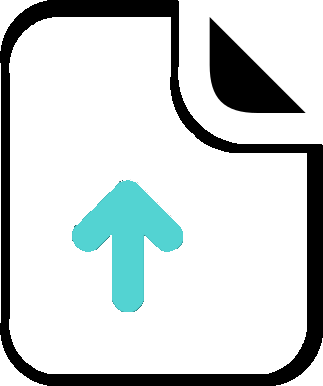
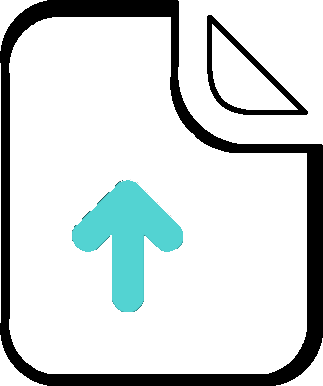
att png

Changed region(s): [[0.6192, 0.0311, 0.9598, 0.3109]]

diff --git a/Teste/teste.html b/Teste/teste.html
@@ -71,7 +71,7 @@
           <span class="csh-home-list-wrap csh-text-wrap"><span class="csh-home-list-label csh-text-ellipsis-multiline csh-text-ellipsis-multiline-lines-2">Envie por aqui os novos arquivos que precisa de configuração para que o time de suporte faça.</span></span></span></a></li>
 
 <li role="listitem"><a href= " role="link class="csh-box csh-box-link csh-font-sans-regular" target="_blank">
-          <span style="background-image: url('https://kaiocesar0.github.io/projeto-ajuda/img/contabilidade.png');" class="csh-home-list-image"></span>
+          <span style="background-image: url('https://kaiocesar0.github.io/projeto-ajuda/img/upload-mini.png');" class="csh-home-list-image"></span>
     
         <span class="csh-home-list-aside"><span class="csh-home-list-category"><span style="background-color: #0E6EC7;" data-has-category="true" class="csh-category-badge csh-font-sans-medium">Contabilidade</span></span>
           
